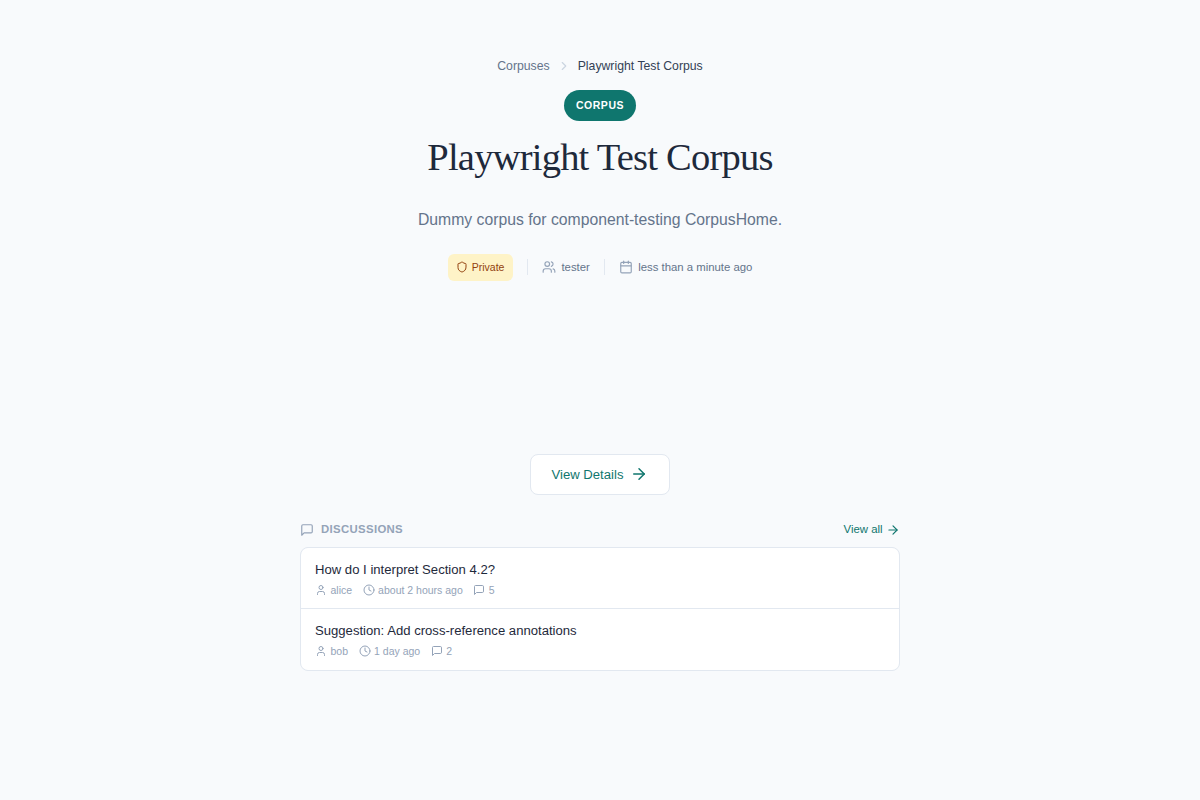
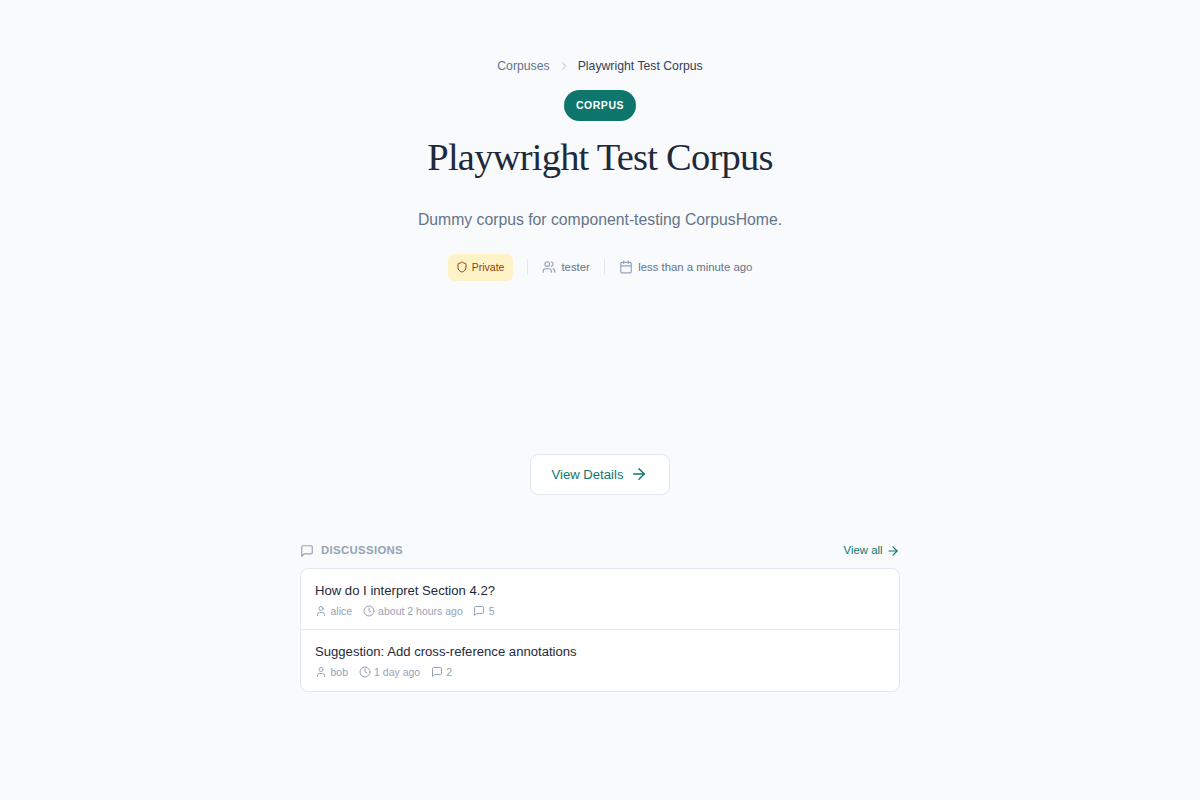
Increase vertical spacing between View Details button and discussions feed
https://claude.ai/code/session_016ytT2QqWj9Jvav1fLy6rtj

Changed region(s): [[0.2467, 0.6562, 0.4933, 0.8438], [0.7092, 0.6562, 0.74, 0.7188]]

diff --git a/frontend/src/components/corpuses/CorpusHome/RecentDiscussions.tsx b/frontend/src/components/corpuses/CorpusHome/RecentDiscussions.tsx
@@ -27,10 +27,10 @@ const RECENT_THREAD_LIMIT = 3;
 const FeedContainer = styled.div`
   width: 100%;
   max-width: 600px;
-  margin-top: 2rem;
+  margin-top: 3.5rem;
 
   ${mediaQuery.tablet} {
-    margin-top: 1.5rem;
+    margin-top: 2.5rem;
   }
 `;
 
